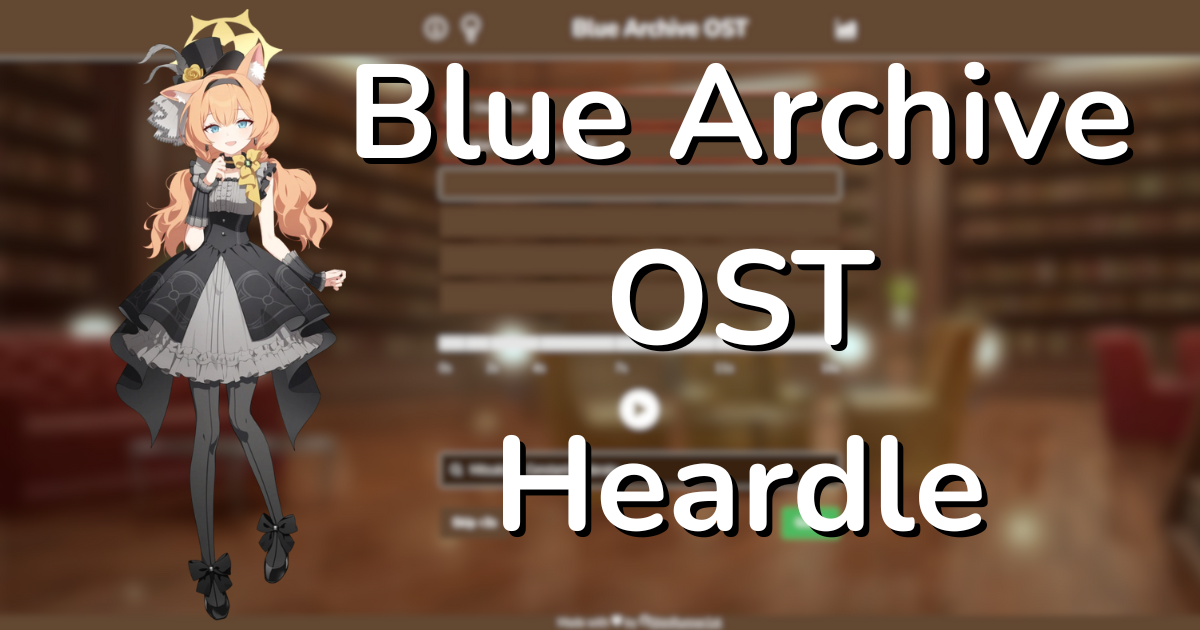
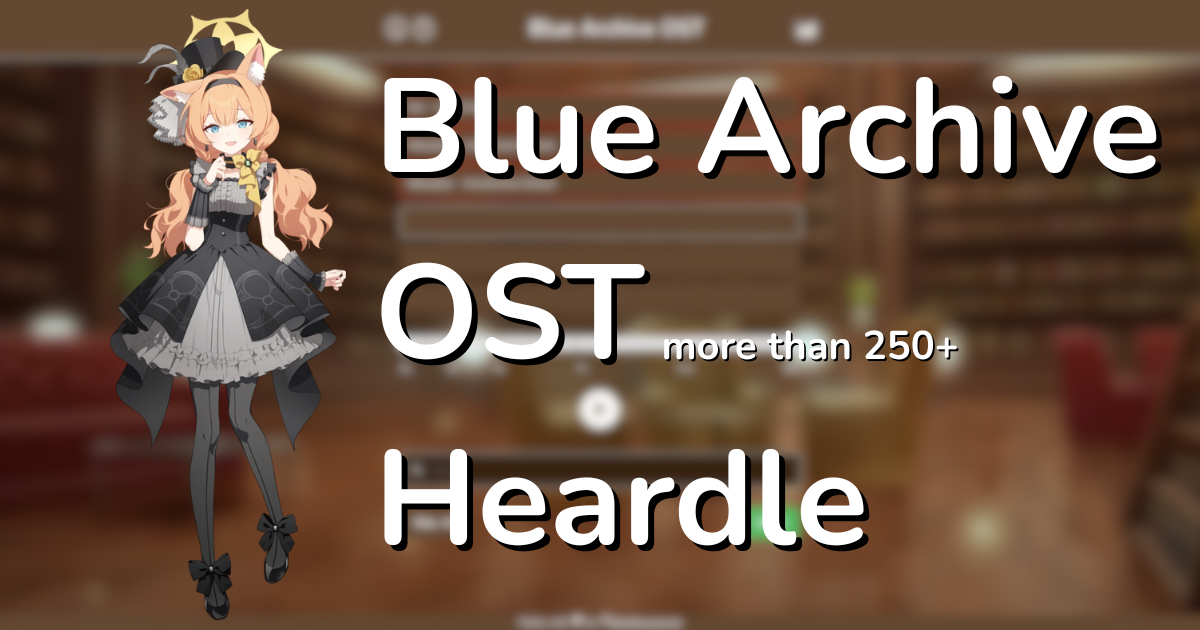
new preview pic

diff --git a/src/components/Header/index.tsx b/src/components/Header/index.tsx
@@ -1,5 +1,5 @@
 import React from "react";
-import { IoInformationCircleOutline, IoBarChart, IoBulbOutline } from "react-icons/io5";
+import { IoInformationCircleOutline, IoBarChart, IoHelpCircleOutline } from "react-icons/io5";
 
 import * as Styled from "./index.styled";
 
@@ -18,7 +18,7 @@ export function Header({ openInfoPopUp, openStatsPopUp, openHowToPopUp }: Props)
             onClick={openInfoPopUp}
             size={40}
           />
-          <IoBulbOutline
+          <IoHelpCircleOutline
             onClick={openHowToPopUp}
             size={40}
           />

diff --git a/src/components/Header/index.styled.ts b/src/components/Header/index.styled.ts
@@ -55,7 +55,12 @@ export const Logo = styled.h1`
   font-family: "Nunito Sans Variable";
   justify-self: center;
   white-space: nowrap;
+  font-size: 2em;
 
   -webkit-touch-callout: none;
   user-select: none;
+
+  @media (max-width: 768px) {
+    font-size: 1.5em;
+  }
 `;
